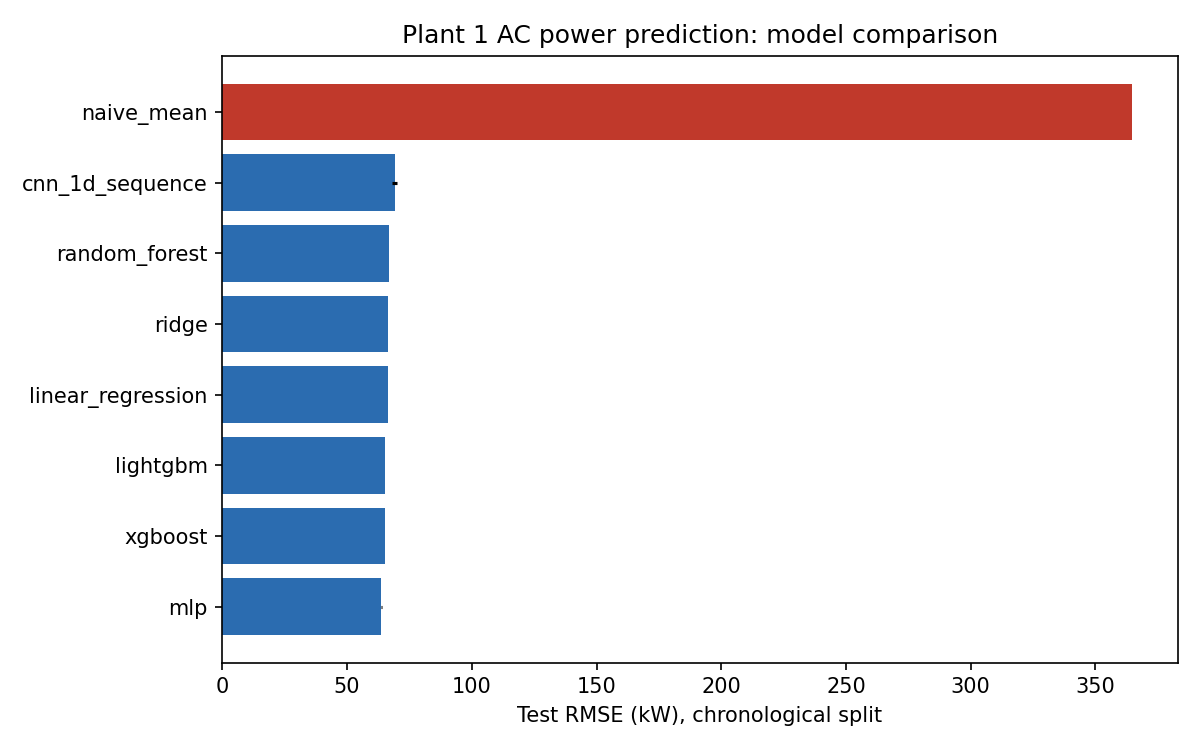
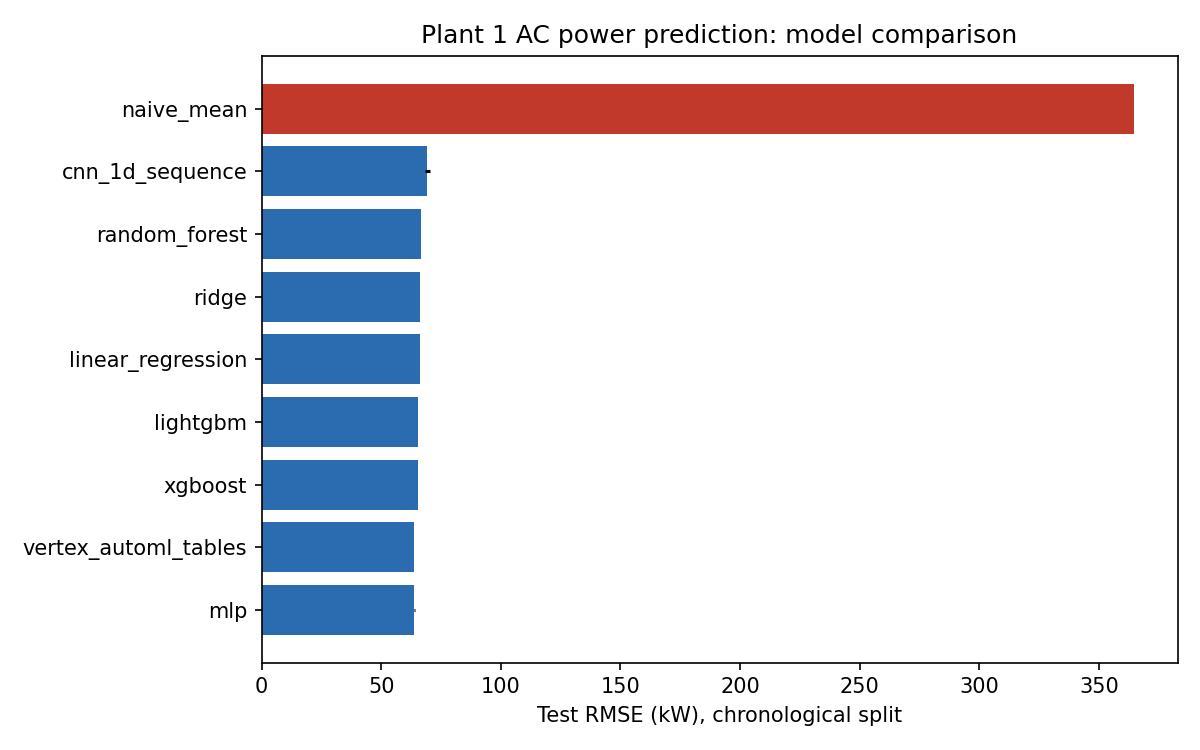
Fold Vertex AI AutoML Tables results into benchmark and README

diff --git a/src/vertex_automl_evaluate.py b/src/vertex_automl_evaluate.py
@@ -67,7 +67,10 @@ def main():
     for blob in storage_client.list_blobs(
         info["bucket"], prefix=batch_job.output_info.gcs_output_directory.replace(f"gs://{info['bucket']}/", "")
     ):
-        if not blob.name.endswith(".jsonl"):
+        # Vertex names tabular batch-prediction output
+        # "prediction.results-NNNNN-of-NNNNN" (JSONL content, no .jsonl
+        # extension) alongside a separate "prediction.errors_stats" file.
+        if "results" not in blob.name:
             continue
         for line in blob.download_as_text().splitlines():
             if not line.strip():

diff --git a/README.md b/README.md
@@ -75,14 +75,18 @@ variance by construction.
 | LightGBM | 65.37 +/- 0.00 | 30.71 | 0.967 |
 | XGBoost | 65.18 +/- 0.00 | 30.84 | 0.968 |
 | MLP | 63.73 +/- 0.19 | 30.08 | 0.969 |
-| Vertex AI AutoML Tables | *(pending -- see Status below)* | | |
+| Vertex AI AutoML Tables | 63.80 | 29.62 | 0.969 |
 
 All models clear the naive baseline by a wide margin; differences between
 linear, tree-ensemble, and neural approaches are modest once the split is
 chronological rather than random shuffle (compare against random-split
 numbers, which run closer to RMSE ~46 kW -- the chronological split is the
 harder, more honest test, since a random split lets nearby-in-time daylight
-readings leak information across the train/test boundary).
+readings leak information across the train/test boundary). Notably, a
+managed AutoML product (Vertex AI AutoML Tables) does not beat a
+lightweight, hand-built MLP on this problem -- it matches it almost
+exactly, while costing over an hour of training time and real compute
+spend versus seconds on a laptop CPU.
 
 See `results/figures/model_comparison.png`.
 
@@ -142,10 +146,9 @@ Tables regressor on the identical train/test split, and
 `src/vertex_automl_evaluate.py` scores it via batch prediction on the
 held-out test set using the same RMSE/MAE/R2 metrics as every other model.
 
-**Status:** training job launched; AutoML Tables training takes on the
-order of an hour or more even for a small dataset, so results are appended
-to `results/metrics/regression_benchmark.json` under
-`vertex_automl_tables` once `vertex_automl_evaluate.py` finishes.
+**Status:** complete. Training took roughly an hour; results are in
+`results/metrics/regression_benchmark.json` under `vertex_automl_tables`
+and in the table above.
 
 ## Repository layout
 
